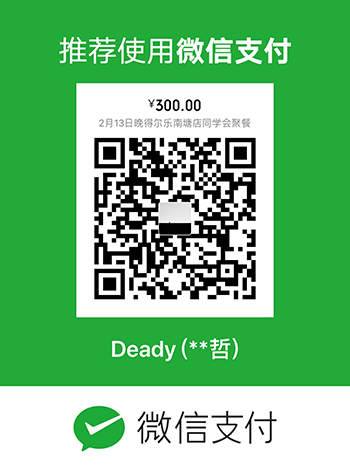
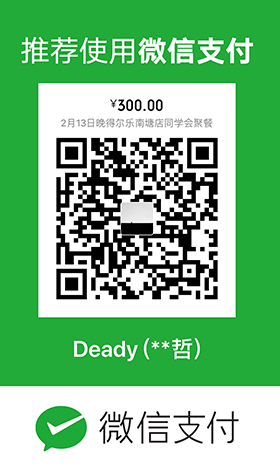
页面样式调整

diff --git a/BasicFrame/WebRoot/js/msgCode/msgCode.js b/BasicFrame/WebRoot/js/msgCode/msgCode.js
@@ -30,9 +30,9 @@
 			            layer.open({
 			                type:1,
 			                shift:-1,
-			                title: '付款',
+			                title: '长按,识别图中二维码付款',
 			                closeBtn:0,
-			                area: ['310px','550px'],
+			                area: ['280px','480px'],
 			                content: $("#payInfo"),
 			                btn:["关闭"],
 			                cancel:function(){

diff --git a/BasicFrame/src/com/deady/action/ApplyAction.java b/BasicFrame/src/com/deady/action/ApplyAction.java
@@ -104,6 +104,7 @@ public class ApplyAction {
 		}
 		if (student.getIsApply().equals("1") && student.getIsPay().equals("1")) {
 			response.setSuccess(true);
+			response.setData("is_payed");
 			response.setMessage("您已成功报名!并缴费成功!");
 			return response;
 		}
@@ -124,10 +125,10 @@ public class ApplyAction {
 		}
 
 		String code = MsgSendUtils.generateCheckCode();
-		// Map<String, Object> resultMap = MsgSendUtils.sendMsg(phone,
-		// student.getName(), code);
-		Map<String, Object> resultMap = new HashMap<String, Object>();
-		resultMap.put("result", true);
+		Map<String, Object> resultMap = MsgSendUtils.sendMsg(phone,
+				student.getName(), code);
+		// Map<String, Object> resultMap = new HashMap<String, Object>();
+		// resultMap.put("result", true);
 		logger.info(student.getName() + ":code:" + code);
 		if (null != resultMap && (Boolean) resultMap.get("result")) {
 			// 验证码 存到session中
@@ -136,6 +137,7 @@ public class ApplyAction {
 				stu = student;
 			}
 			stu.setMsgCode(code);
+			stu.setPhone(phone);
 			OperatorSessionInfo.save(req,
 					OperatorSessionInfo.STUDENT_SESSION_ID, stu, 10);
 
@@ -178,7 +180,7 @@ public class ApplyAction {
 			return response;
 		}
 		// 验证通过 添加报名信息
-		studentService.apply(stu.getId(), 1);
+		studentService.apply(stu.getId(), stu.getPhone(), 1);
 		// 显示付款页面(由于没有注册公司,所以只能显示个人账号二维码)
 		response.setSuccess(true);
 		response.setMessage("报名成功!");

diff --git a/BasicFrame/src/com/deady/service/StudentServiceImpl.java b/BasicFrame/src/com/deady/service/StudentServiceImpl.java
@@ -33,10 +33,10 @@ public class StudentServiceImpl implements StudentService {
 	 *            1:报名 2:付款
 	 */
 	@Override
-	public void apply(String studentId, int type) {
+	public void apply(String studentId, String phone, int type) {
 		String now = DateUtils.getCurrentDate("yyyy-MM-dd HH:mm:ss");
 		if (type == 1) {
-			studentDAO.apply(studentId, now);
+			studentDAO.apply(studentId, phone, now);
 		} else if (type == 2) {
 			studentDAO.pay(studentId, now);
 		}

diff --git a/BasicFrame/src/com/deady/dao/StudentDAO.java b/BasicFrame/src/com/deady/dao/StudentDAO.java
@@ -13,7 +13,8 @@ public interface StudentDAO {
 	Student findStudentByClassIdAndName(@Param("classId") String classId,
 			@Param("name") String name);
 
-	void apply(@Param("studentId") String studentId, @Param("now") String now);
+	void apply(@Param("studentId") String studentId,
+			@Param("phone") String phone, @Param("now") String now);
 
 	void pay(@Param("studentId") String studentId, @Param("now") String now);
 

diff --git a/BasicFrame/src/com/deady/log/LogInterceptor.java b/BasicFrame/src/com/deady/log/LogInterceptor.java
@@ -1,10 +1,15 @@
 package com.deady.log;
 
+import java.util.Enumeration;
+
 import javax.servlet.http.HttpServletRequest;
 
 import org.aspectj.lang.JoinPoint;
 import org.slf4j.Logger;
 import org.slf4j.LoggerFactory;
+
+import com.deady.entity.Operator;
+import com.deady.utils.OperatorSessionInfo;
 
 public class LogInterceptor {
 

diff --git a/BasicFrame/src/com/deady/service/StudentService.java b/BasicFrame/src/com/deady/service/StudentService.java
@@ -17,6 +17,6 @@ public interface StudentService {
 	 * @param type
 	 *            1:报名 2:付款
 	 */
-	void apply(String studentId, int type);
+	void apply(String studentId, String phone, int type);
 
 }
